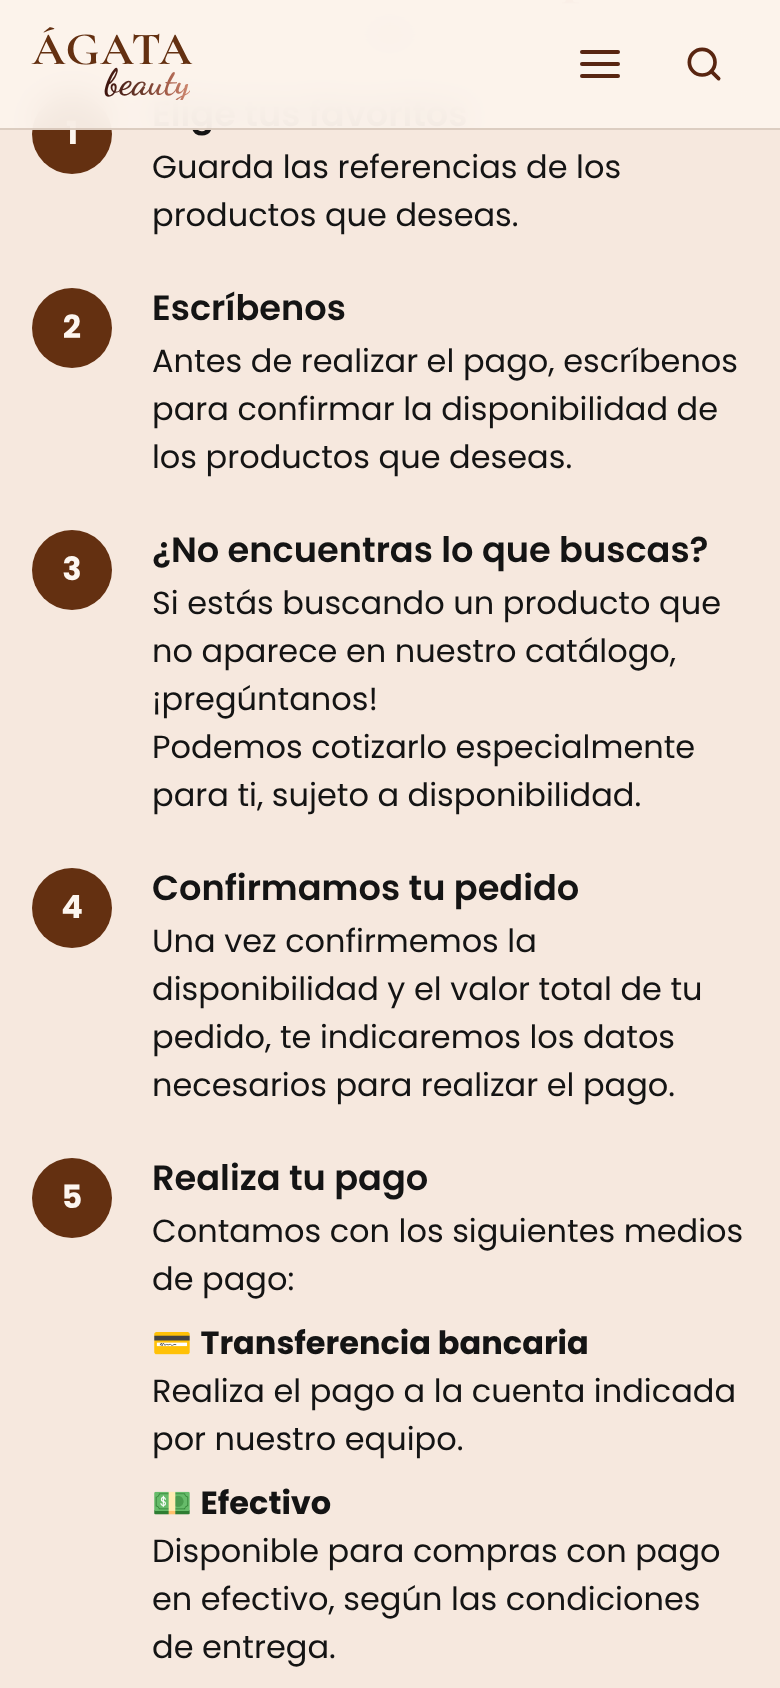
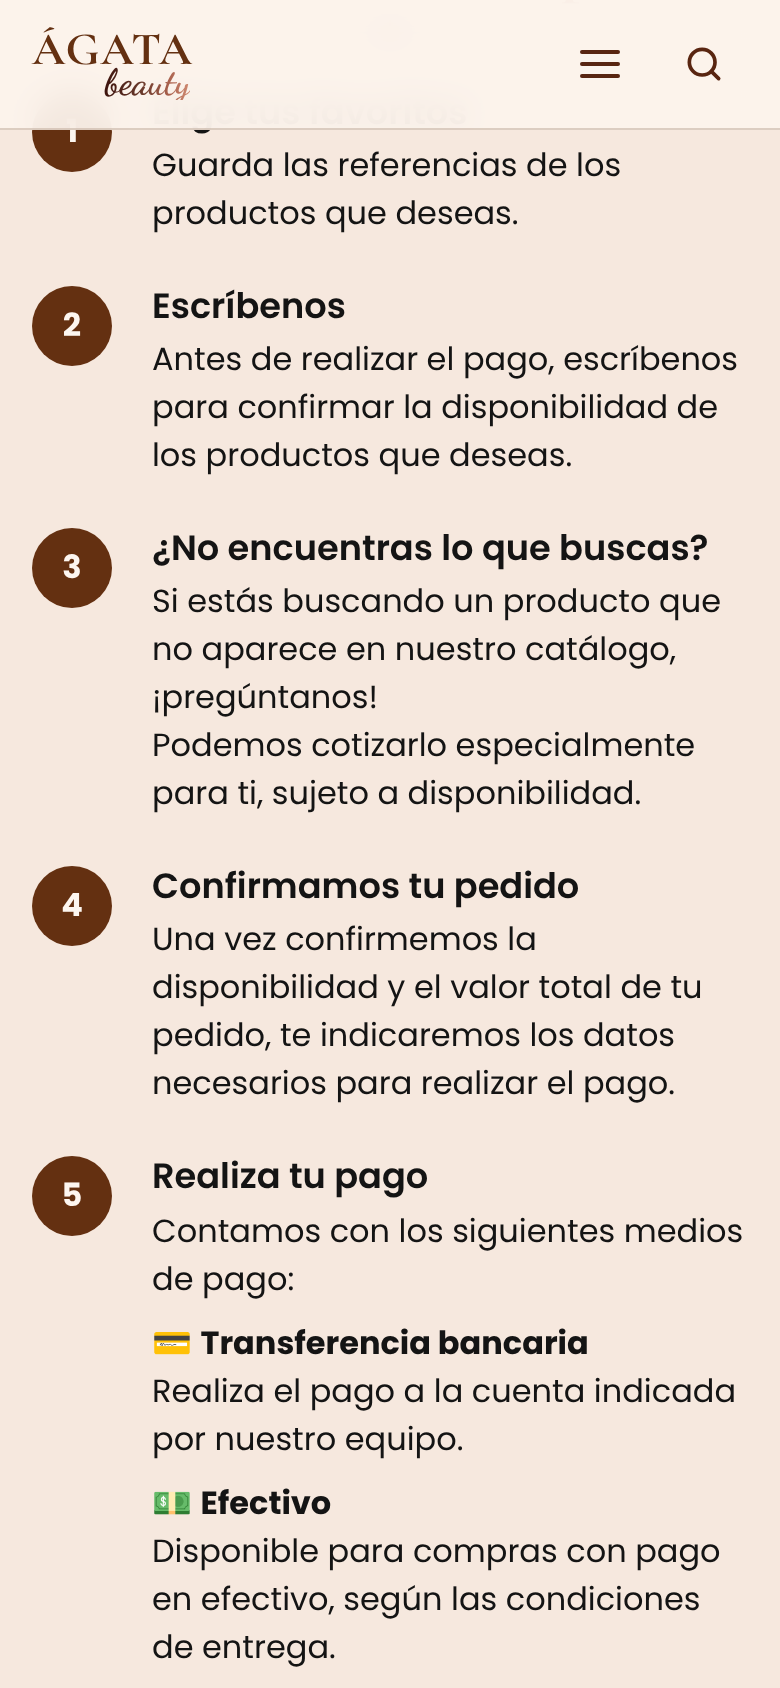
Versiones de las pestañinas Maybelline y fotos de Lehit
- Sky High, Colossal y Surreal: se elige Lavable o A prueba de agua, cada una
  con su foto (Medipiel y Cromantic), y la versión va en el mensaje de WhatsApp.
- Lehit: foto en alta resolución del complejo biológico y del gusano de seda.
- Descartadas: Lehit aguacate y cebolla (adornos sueltos tras quitar el fondo),
  Johnson's shampoo cabello oscuro y amarillo (otro envase).

Claude-Session: https://claude.ai/code/session_01LNLN1rUKGy8qFZBEtECZrz

diff --git a/js/ui.js b/js/ui.js
@@ -25,7 +25,7 @@ function el(tag, attrs = {}, children = []) {
 }
 
 // "Tono" / "Tonos", "Sabor" / "Sabores"… según cómo llama la marca a las opciones.
-const PLURALS = { Tono: 'Tonos', Color: 'Colores', Sabor: 'Sabores', Estilo: 'Estilos', Aroma: 'Aromas' };
+const PLURALS = { Tono: 'Tonos', Color: 'Colores', Sabor: 'Sabores', Estilo: 'Estilos', Aroma: 'Aromas', 'Versión': 'Versiones' };
 function shadeWord(product, count = 1) {
   const word = product.shadesLabel ?? 'Tono';
   return count === 1 ? word : PLURALS[word] ?? `${word}s`;

diff --git a/scripts/fetch-shades.py b/scripts/fetch-shades.py
@@ -109,6 +109,16 @@ SHADE_PAGES = {
     'Chap Stick|Protector labial': {
         'store': 'https://chapstick.com.co', 'title': r'^chapstick (?P<tono>strawberry|cherry|mint|med)$', 'label': 'Sabor',
         'source': 'https://chapstick.com.co/'},
+    # Maybelline: cada versión (lavable / a prueba de agua) en la tienda que indicó Ágata Beauty.
+    'Maybelline|Pestañina Sky High Lavable | A prueba de agua': {
+        'items': [('Lavable', 'https://www.medipiel.com.co/pestanina-sky-high-negra-lavable-maybelline/p'), ('A prueba de agua', 'https://www.cromantic.com/pestanina-maybelline-lash-sensational-sky-high/p#2')],
+        'label': 'Versión', 'source': 'https://www.medipiel.com.co/pestanina-sky-high-negra-lavable-maybelline/p'},
+    'Maybelline|Pestañina Colossal Lavable | A prueba de agua': {
+        'items': [('Lavable', 'https://www.medipiel.com.co/pestanina-the-colossal-volum-express-lavable-maybelline/p'), ('A prueba de agua', 'https://www.cromantic.com/pestanina-maybelline-colossal-50938/p')],
+        'label': 'Versión', 'source': 'https://www.medipiel.com.co/pestanina-the-colossal-volum-express-lavable-maybelline/p'},
+    'Maybelline|Pestañina Surreal Lavable | A prueba de agua': {
+        'items': [('Lavable', 'https://www.medipiel.com.co/pestanina-falsies-surreal-very-black-lavable-maybelline/p'), ('A prueba de agua', 'https://www.cromantic.com/pestanina-maybelline-falsies-surreal-black/p#2')],
+        'label': 'Versión', 'source': 'https://www.medipiel.com.co/pestanina-falsies-surreal-very-black-lavable-maybelline/p'},
     # Fantiluna (WooCommerce): cada aroma es un producto de la categoría.
     'Fantiluna|Mantequilla corporal x 220 ml': {
         'woo': 'https://fantiluna.com', 'category': 340, 'title': r'^mantequilla corporal (?P<tono>.+?)(?: 220 ?ml)?$',
@@ -399,8 +409,23 @@ def woocommerce_options(url):
     return names.get(attr, attr), items, url
 
 
+def fixed_items(items, source):
+    """Opciones con nombre fijo, cada una con su página de producto (VTEX, enlaces que terminan en /p)."""
+    found = []
+    for name, page in items:
+        page, _, n = page.partition('#')                      # "#N": foto N de la página (sin letreros)
+        n = int(n or 1) - 1
+        parts = urlsplit(page)
+        data = json.loads(get(f"{parts.scheme}://{parts.netloc}/api/catalog_system/pub/products/search{parts.path.rstrip('/')}"))
+        images = data[0]['items'][0].get('images') if data and data[0].get('items') else None
+        found.append((name, images[n]['imageUrl'] if images and len(images) > n else None))
+    return 'Versión', found, source
+
+
 def shades_for(product, url, keep_background=False):
-    if isinstance(url, dict) and 'woo' in url:
+    if isinstance(url, dict) and 'items' in url:
+        option, items, url = fixed_items(url['items'], url['source'])
+    elif isinstance(url, dict) and 'woo' in url:
         option, items, url = woo_category(url['woo'], url['category'], url['title'], url['source'])
     elif isinstance(url, dict) and 'pages' in url:
         option, items, url = pages_ld_json(url['pages'], url['title'], url['source'], url.get('photos', True))

diff --git a/scripts/fetch-product-photos.py b/scripts/fetch-product-photos.py
@@ -191,12 +191,22 @@ PHOTO_PAGES = {
     "Johnson's|Shampoo - Fuerza y vitamina": 'https://www.exito.com/johnsons-baby-shampoo-fuerza-y-vitamina-x-750-ml-350597/p#2',
     "Johnson's|Baño líquido - Avena": 'https://www.exito.com/johnsons-baby-jab-n-l-quido-avena-x-400-ml-795218/p#2',
     "Johnson's|Baño líquido - Antes de dormir": 'https://www.exito.com/jabon-liquido-antes-de-dormir-865694/p#2',
+    'Lehit|Tratamiento aceite de aguacate x30 gr': 'https://tiendalehit.com/products/tratamiento-aceite-de-aguacate',
+    'Lehit|Tratamiento complejo biológico con queratina x30gr': 'https://tiendalehit.com/products/tratamiento-complejo-biologico',
+    'Lehit|Tratamiento cebolla y jengibre x30 gr': 'https://tiendalehit.com/products/sobre-tratamiento-cebolla',
+    'Lehit|Tratamiento capullo de gusano de seda x30gr': 'https://tiendalehit.com/products/tratamiento-gusano-de-seda',
+    "Johnson's|Shampoo baby - Cabello oscuro": 'https://www.larebajavirtual.com/champu-bebe-johnson-s-cabello-oscuro-129840/p',
+    "Johnson's|Shampoo baby - amarillo": 'https://www.larebajavirtual.com/champu-bebe-johnson-s-original-130677/p',
 }
 
 # Productos cuyos tonos están publicados como productos separados: la foto de un tono no representa
 # al producto completo, así que no se reemplaza automáticamente.
 # Fotos oficiales que no sirven para recortar el fondo (se queda la foto del catálogo).
 EXCLUDE = {
+    'Lehit|Tratamiento aceite de aguacate x30 gr': 'la foto trae hojas decorativas que quedan sueltas al quitar el fondo',
+    'Lehit|Tratamiento cebolla y jengibre x30 gr': 'la foto trae una cebolla decorativa que queda pegada al quitar el fondo',
+    "Johnson's|Shampoo baby - Cabello oscuro": 'en la tienda es frasco con tapa; en el catálogo es con dosificador',
+    "Johnson's|Shampoo baby - amarillo": 'en la tienda es frasco con tapa; en el catálogo es con dosificador',
     "Johnson's|Baño líquido - Avena": 'la tienda muestra otra versión de la etiqueta',
     "Johnson's|Baño líquido - Antes de dormir": 'la tienda muestra otra versión de la etiqueta',
     'Garnier|Agua micelar pure active x 400 ml': 'todas las fotos de la tienda traen letreros o son de uso (no hay foto limpia del producto)',

diff --git a/docs/AUDITORIA.md b/docs/AUDITORIA.md
@@ -580,12 +580,13 @@ Ajustes de nombres autorizados: Base Glow Filter sin el sufijo "Glow Filter" (la
 ## Fotos principales en alta resolución
 
 - **Cambio de regla autorizado por Ágata Beauty:** se permite quitar **solo el fondo** de las fotos con un recortador automático (rembg, modelo isnet-general-use), sin modificar el producto (colores, letras y forma intactos; sin "mejorar" la nitidez). Así todas las fotos quedan sobre el mismo disco beige del catálogo. Una primera versión con el fondo blanco o de color de las tiendas se revirtió porque rompía esa uniformidad.
-- **169 productos** usan la foto principal oficial (45 con tonos + 118 buscados en las tiendas oficiales de cada marca —entre ellas Leche pal pelo, Anyeluz, Olé, Bioaqua, Nude, Skin 1004, Prosa, Nivea y Tocobo (tienda Kalon Skin Bar, enlazada desde tocobo.com.co)—; enlaces en `PHOTO_PAGES` de `scripts/fetch-product-photos.py`) (1080–2250 px en la tienda), sin fondo y guardada a 800 px con el producto centrado para que el círculo no lo corte. Se tomaron con `scripts/fetch-product-photos.py` de las mismas páginas de los tonos y se compararon con la foto del catálogo; su origen está en `assets/images/productos-hd/fuentes.json`.
+- **171 productos** usan la foto principal oficial (45 con tonos + 118 buscados en las tiendas oficiales de cada marca —entre ellas Leche pal pelo, Anyeluz, Olé, Bioaqua, Nude, Skin 1004, Prosa, Nivea y Tocobo (tienda Kalon Skin Bar, enlazada desde tocobo.com.co)—; enlaces en `PHOTO_PAGES` de `scripts/fetch-product-photos.py`) (1080–2250 px en la tienda), sin fondo y guardada a 800 px con el producto centrado para que el círculo no lo corte. Se tomaron con `scripts/fetch-product-photos.py` de las mismas páginas de los tonos y se compararon con la foto del catálogo; su origen está en `assets/images/productos-hd/fuentes.json`.
 - **Fotos de los tonos:** también sin fondo, sobre el mismo beige del disco de Canva (#d9d3c3, medido en el PDF), en los círculos pequeños y en la foto grande al elegir el tono. Excepciones que conservan el fondo de la tienda porque el recorte quedaba mal (primeros planos o carteles con letras): Atenea Iluminador Sublime, Atenea Delineador de cejas y Fantiluna Iluminador corporal (`KEEP_BACKGROUND` en `scripts/fetch-shades.py`).
 - **Fotos oficiales descartadas** (siguen con la foto del catálogo; motivo en `EXCLUDE`): Kit de brochas Fluffy (caja con letras), Montoc Polvos Translúcidos (otro empaque), Dixy Fix (envase distinto), Set de Borlas (caja cerrada), Bloomshell Laminador de cejas y Llavero Mimosa (exhibidor), Bloom Oil Stop (recorte defectuoso), Girly Polvo suelto y Majikal Polvos sueltos (solo cajas) y Milagros Doypack frutas (empaque distinto); los 6 kits faciales Bioaqua (la foto de la tienda trae el aviso "Envío Gratis" y un regalo), Bioaqua Espuma limpiadora de arroz (tubo en vez de frasco con cepillo), Anyeluz Tratamiento reparación (el recorte se come el frasco blanco), Olé Shampoo hidratación y nutrición (otro color de frasco) y Olé Spray antihumedad (otra etiqueta), Prosa Pestañina Profesional Silicon café (tubo dorado en la tienda), Prosa Tratamiento en máscara (otra etiqueta), Got2b Glued (otra versión del empaque) y 6 de Nivea que no coinciden con la foto del catálogo (Crema lata, Q10 creatina, Classic Touch, satín spray, Black & White dama y Lip care).
 - **Confirmado por Ágata Beauty:** Leche pal pelo Termoprotector rizos y ondas x 440 ml usa el frasco azul (Rizos y Ondas); en el catálogo aparecía por error el del Tradicional.
 - **Chap Stick Protector labial:** cada sabor del catálogo (Fresa, Cereza, Menta y Medicado) se puede elegir con su foto de chapstick.com.co (autorizado por Ágata Beauty).
-- **Sin foto oficial utilizable todavía:** Skin 1004 Poremizing (todas las fotos son con modelo o con sello publicitario); presentaciones de 30 y 40 ml de Leche pal pelo (la tienda solo tiene 440 ml / 800 ml); Lehit no publica fotos de productos en su página; Prosa Aceite para pestañas no está en su tienda; Maybelline, Garnier y Johnson's se toman de las tiendas que indicó Ágata Beauty (Medipiel, Cromantic, Éxito); descartadas: Garnier Pure Active (todas las fotos con letreros) y Johnson's Baño líquido Avena y Antes de dormir (otra versión de la etiqueta). Pendientes de acceso: Lehit (tiendalehit.com), La Rebaja y Cruz Verde.
+- **Sin foto oficial utilizable todavía:** Skin 1004 Poremizing (todas las fotos son con modelo o con sello publicitario); presentaciones de 30 y 40 ml de Leche pal pelo (la tienda solo tiene 440 ml / 800 ml); Lehit no publica fotos de productos en su página; Prosa Aceite para pestañas no está en su tienda; Maybelline, Garnier y Johnson's se toman de las tiendas que indicó Ágata Beauty (Medipiel, Cromantic, Éxito); descartadas: Garnier Pure Active (todas las fotos con letreros) y Johnson's Baño líquido Avena y Antes de dormir (otra versión de la etiqueta). Lehit: 2 de 4 desde tiendalehit.com (las de aguacate y cebolla traen adornos que quedan sueltos al quitar el fondo). Johnson's Shampoo cabello oscuro y amarillo (La Rebaja): descartados porque la tienda muestra frasco con tapa y el catálogo con dosificador. Cruz Verde no permite descargar sus fotos sin sesión: Garnier 100 ml y vitamina C, Johnson's cabello claro y las 2 cremas siguen con la foto del catálogo.
+- **Pestañinas Maybelline (Sky High, Colossal, Surreal):** se puede elegir la versión Lavable (foto de Medipiel) o A prueba de agua (foto de Cromantic), autorizado por Ágata Beauty.
 - **No encontrados con seguridad en la tienda** (pendientes de enlace exacto): Bloomshell Paleta Bloom Vibes, Bloom Termo, Bloom porta cosméticos, Iluminador Bloom Dazlee, los 2 polvos sueltos y Brillo labial Bombón; OG Gloss and lip Dreamy y Brillo labial Yess Queen.
 - **12 productos con tonos** (base y corrector Bloomshell, polvo suelto y paleta x9 Samy, Raquel, perfume Milagros y los 6 de Fantiluna) publican cada tono como producto aparte: su foto principal sigue pendiente.
 - **Corrección:** el recorte de las fotos del PDF tenía un mínimo de 96 ppp que ampliaba ~10-15 % las fotos de ~85 ppp; ahora cada foto se recorta a su resolución real.

diff --git a/docs/FOTOS-A-MEJORAR.md b/docs/FOTOS-A-MEJORAR.md
@@ -1,6 +1,6 @@
 # Fotos del catálogo que deben mejorar
 
-De los 249 productos, **169 ya tienen foto en alta resolución** (página oficial) y **80 siguen con la foto del PDF de Canva**, que se subió en baja resolución. Este archivo lo genera `scripts/photo-report.py`.
+De los 249 productos, **171 ya tienen foto en alta resolución** (página oficial) y **78 siguen con la foto del PDF de Canva**, que se subió en baja resolución. Este archivo lo genera `scripts/photo-report.py`.
 
 - **Tamaño:** la ficha muestra la foto a 320 px y en celulares necesita unos **640 px** (ideal: 800 px). Las fotos del PDF miden entre 160 y 600 px, a su resolución real (sin ampliar).
 - **Nitidez:** se midió el detalle de cada foto; las borrosas o con "cuadritos" de compresión van primero.
@@ -8,7 +8,7 @@ De los 249 productos, **169 ya tienen foto en alta resolución** (página oficia
 | Prioridad | Qué significa | Fotos |
 | --- | --- | ---: |
 | **Alta** | Borrosa o con compresión visible: se nota aun en las tarjetas | 15 |
-| **Media** | Pequeña (menos de 400 px): se ve suave en la ficha | 62 |
+| **Media** | Pequeña (menos de 400 px): se ve suave en la ficha | 60 |
 | **Baja** | Algo más grande o nítida, pero aún por debajo de 640 px | 3 |
 
 ## Qué se necesita
@@ -34,7 +34,7 @@ De los 249 productos, **169 ya tienen foto en alta resolución** (página oficia
 | Garnier | 3 | 0 | 3 | 0 | — |
 | Milagros | 2 | 1 | 1 | 0 | milagrosbeauty.com |
 | Anyeluz | 1 | 0 | 1 | 0 | — |
-| Lehit | 4 | 0 | 4 | 0 | — |
+| Lehit | 2 | 0 | 2 | 0 | — |
 | Leche pal pelo | 4 | 0 | 4 | 0 | — |
 | Olé | 2 | 1 | 1 | 0 | — |
 | Johnson's | 7 | 1 | 6 | 0 | — |
@@ -171,9 +171,7 @@ De los 249 productos, **169 ya tienen foto en alta resolución** (página oficia
 | ID | Producto | Pág. | Tamaño | Prioridad | Enlace |
 | --- | --- | ---: | ---: | --- | --- |
 | `lehit-100-1` | Tratamiento aceite de aguacate x30 gr | 100 | 273 px | Media | — |
-| `lehit-100-2` | Tratamiento complejo biológico con queratina x30gr | 100 | 339 px | Media | — |
 | `lehit-101-1` | Tratamiento cebolla y jengibre x30 gr | 101 | 276 px | Media | — |
-| `lehit-101-2` | Tratamiento capullo de gusano de seda x30gr | 101 | 390 px | Media | — |
 
 ### Leche pal pelo
 
